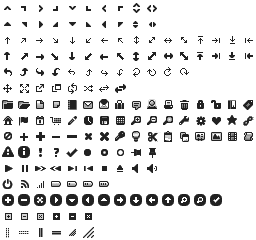
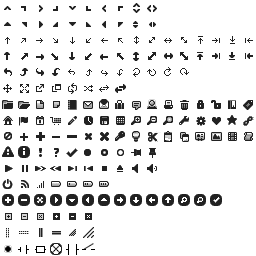
添加物体菜单图标

diff --git a/h5-src/js/canvasMgr.js b/h5-src/js/canvasMgr.js
@@ -467,12 +467,12 @@ CanvasMgr.BeforePopupMenu = function(e, ui) {
 		menuArray.push({title: "解除输入限制 <kbd>Ctrl+R</kbd>", uiIcon: "ui-icon-key", action:CanvasMgr.OnUnlock});
 		menuArray.push({title: "显示电势差 <kbd>Ctrl+U</kbd>", uiIcon: "ui-icon-pause", action:CanvasMgr.OnShowPressure});
 	} else if (BODY_NO == type) {	//右击空白处
-		menuArray.push({title: "添加结点", uiIcon: "ui-icon-circle-plus", action:CanvasMgr.OnSetAddState, cmd:"add-crun"});
-		menuArray.push({title: "添加电源", uiIcon: "ui-icon-circle-plus", action:CanvasMgr.OnSetAddState, cmd:"add-source"});
-		menuArray.push({title: "添加电阻", uiIcon: "ui-icon-circle-plus", action:CanvasMgr.OnSetAddState, cmd:"add-resist"});
-		menuArray.push({title: "添加灯泡", uiIcon: "ui-icon-lightbulb", action:CanvasMgr.OnSetAddState, cmd:"add-bulb"});
-		menuArray.push({title: "添加电容器", uiIcon: "ui-icon-circle-plus", action:CanvasMgr.OnSetAddState, cmd:"add-capa"});
-		menuArray.push({title: "添加开关", uiIcon: "ui-icon-circle-plus", action:CanvasMgr.OnSetAddState, cmd:"add-switch"});
+		menuArray.push({title: "添加结点", uiIcon: "ui-icon-add-crun", action:CanvasMgr.OnSetAddState, cmd:"add-crun"});
+		menuArray.push({title: "添加电源", uiIcon: "ui-icon-add-source", action:CanvasMgr.OnSetAddState, cmd:"add-source"});
+		menuArray.push({title: "添加电阻", uiIcon: "ui-icon-add-resist", action:CanvasMgr.OnSetAddState, cmd:"add-resist"});
+		menuArray.push({title: "添加灯泡", uiIcon: "ui-icon-add-bulb", action:CanvasMgr.OnSetAddState, cmd:"add-bulb"});
+		menuArray.push({title: "添加电容器", uiIcon: "ui-icon-add-capa", action:CanvasMgr.OnSetAddState, cmd:"add-capa"});
+		menuArray.push({title: "添加开关", uiIcon: "ui-icon-add-switch", action:CanvasMgr.OnSetAddState, cmd:"add-switch"});
 		menuArray.push({title: "------------", disabled: true});
 		
 		var pasteMenuItem = {title: "粘贴", uiIcon: "ui-icon-clipboard", action:CanvasMgr.OnPaste};//"粘贴 <kbd>Ctrl+V</kbd>"

diff --git a/h5-src/o-css/jquery-ui.css b/h5-src/o-css/jquery-ui.css
@@ -1266,6 +1266,12 @@ a.ui-button:active,
 .ui-icon-gripsmall-diagonal-se { background-position: -64px -224px; }
 .ui-icon-grip-diagonal-se { background-position: -80px -224px; }
 
+.ui-icon-add-crun { background-position: 0 -240px; }
+.ui-icon-add-source { background-position: -16px -240px; }
+.ui-icon-add-resist { background-position: -32px -240px; }
+.ui-icon-add-bulb { background-position: -48px -240px; }
+.ui-icon-add-capa { background-position: -64px -240px; }
+.ui-icon-add-switch { background-position: -80px -240px; }
 
 /* Misc visuals
 ----------------------------------*/
